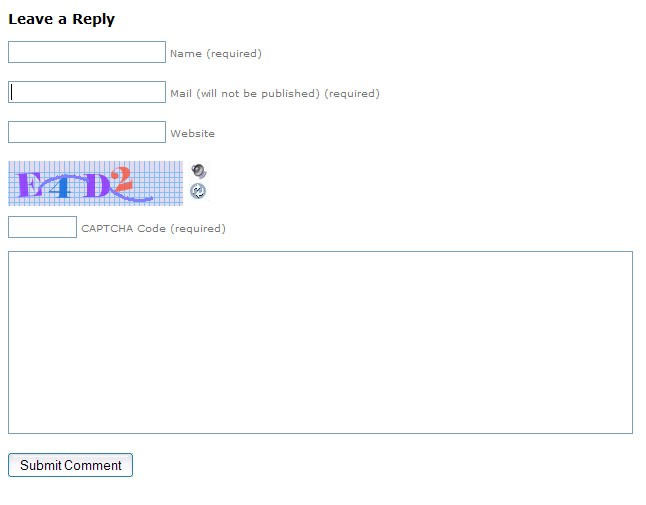
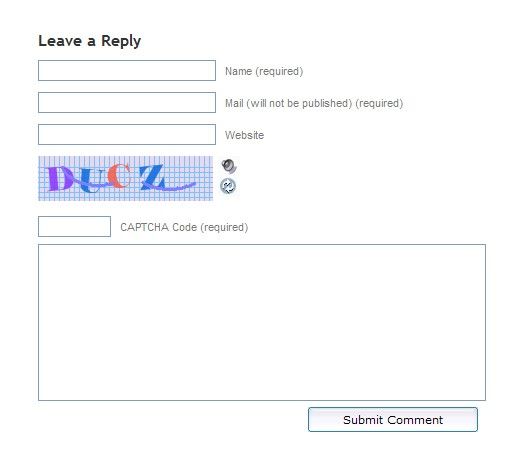
WP 2.7 update
git-svn-id: https://plugins.svn.wordpress.org/si-captcha-for-wordpress/trunk@80779 b8457f37-d9ea-0310-8a92-e5e31aec5664

diff --git a/si-captcha.php b/si-captcha.php
@@ -3,7 +3,7 @@
 Plugin Name: SI CAPTCHA
 Plugin URI: http://www.642weather.com/weather/scripts-wordpress-captcha.php
 Description: A CAPTCHA to protect comment posts and or registrations in WordPress
-Version: 1.3
+Version: 1.3.1
 Author: Mike Challis
 Author URI: http://www.642weather.com/weather/scripts.php
 */
@@ -35,7 +35,7 @@ if (!class_exists('siCaptcha')) {
 
 function add_tabs() {
     //add_options_page('Captcha Options', 'Captcha', 9, __FILE__,array(&$this,'options_page'));
-    add_submenu_page('plugins.php', __('Captcha Options', 'si-captcha'), __('Captcha Options', 'si-captcha'), 'manage_options', __FILE__,array(&$this,'options_page'));
+    add_submenu_page('plugins.php', __('SI Captcha Options', 'si-captcha'), __('SI Captcha Options', 'si-captcha'), 'manage_options', __FILE__,array(&$this,'options_page'));
 }
 
 function get_settings($value) {
@@ -93,10 +93,10 @@ function options_page() {
 <div id="message" class="updated fade"><p><strong><?php _e('Options saved.', 'si-captcha') ?></strong></p></div>
 <?php endif; ?>
 <div class="wrap">
-<h2><?php _e('Captcha Options', 'si-captcha') ?></h2>
+<h2><?php _e('SI Captcha Options', 'si-captcha') ?></h2>
 
 <p>
-<?php _e('Your theme must have a', 'si-captcha') ?> &lt;?php do_action('comment_form', $post->ID); ?&gt; <?php _e('tag inside your comments.php form. Most themes do.', 'si-captcha') ?>
+<?php _e('Your theme must have a', 'si-captcha') ?> &lt;?php do_action('comment_form', $post->ID); ?&gt; <?php _e('tag inside your comments.php form. Most themes do.', 'si-captcha'); echo ' '; ?>
 <?php _e('The best place to locate the tag is before the comment textarea, you may want to move it if it is below the comment textarea, or the captcha image and captcha code entry might display after the submit button.', 'si-captcha') ?>
 </p>
 
@@ -105,11 +105,11 @@ function options_page() {
         <input type="hidden" name="form_type" value="upload_options" />
     <?php si_captcha_nonce_field($si_captcha_nonce) ?>
         <fieldset class="options">
+
         <table width="100%" cellspacing="2" cellpadding="5" class="form-table">
 
         <tr>
-        <th scope="row">
-    <label for="si_captcha_register"><?php _e('CAPTCHA on Register Form:', 'si-captcha') ?></label></th>
+            <th scope="row"><label for="si_captcha_register"><?php _e('CAPTCHA on Register Form:', 'si-captcha') ?></label></th>
         <td>
     <input name="si_captcha_register" id="si_captcha_register" type="checkbox"
     <?php if ( $this->get_settings('si_captcha_register') == 'true' ) echo ' checked="checked" '; ?> />
@@ -118,8 +118,7 @@ function options_page() {
         </tr>
 
         <tr>
-        <th scope="row">
-    <label for="si_captcha_comment"><?php _e('CAPTCHA on Comment Form:', 'si-captcha') ?></label></th>
+            <th scope="row"><label for="si_captcha_comment"><?php _e('CAPTCHA on Comment Form:', 'si-captcha') ?></label></th>
         <td>
     <input name="si_captcha_comment" id="si_captcha_comment" type="checkbox" <?php if ( $this->get_settings('si_captcha_comment') == 'true' ) echo ' checked="checked" '; ?> />
     <?php _e('Enable CAPTCHA on the comment form.', 'si-captcha') ?><br />
@@ -133,8 +132,7 @@ function options_page() {
         </tr>
 
     <tr>
-        <th scope="row">
-    <label for="si_captcha_rearrange"><?php _e('Comment Form Rearrange:', 'si-captcha') ?></label></th>
+        <th scope="row"><label for="si_captcha_rearrange"><?php _e('Comment Form Rearrange:', 'si-captcha') ?></label></th>
         <td>
     <input name="si_captcha_rearrange" id="si_captcha_rearrange" type="checkbox"
     <?php if ( $this->get_settings('si_captcha_rearrange') == 'true' ) echo ' checked="checked" '; ?> />
@@ -144,6 +142,7 @@ function options_page() {
 
         </table>
         </fieldset>
+
 <p><strong><?php _e('Problem:', 'si-captcha') ?></strong>
 <?php _e('Sometimes the captcha image and captcha input field are displayed AFTER the submit button on the comment form.', 'si-captcha') ?><br />
 <strong><?php _e('Fix:', 'si-captcha') ?></strong>
@@ -186,12 +185,12 @@ function captchaCheckRequires() {
 
   $ok = 'ok';
   // Test for some required things, print error message if not OK.
-  if ( !extension_loaded("gd") ) {
+  if ( !extension_loaded('gd') || !function_exists('gd_info') ) {
        echo '<p style="color:maroon">'.__('ERROR: si-captcha.php plugin says GD image support not detected in PHP!', 'si-captcha').'</p>';
        echo '<p>'.__('Contact your web host and ask them why GD image support is not enabled for PHP.', 'si-captcha').'</p>';
       $ok = 'no';
   }
-  if ( !function_exists("imagepng") ) {
+  if ( !function_exists('imagepng') ) {
        echo '<p style="color:maroon">'.__('ERROR: si-captcha.php plugin says imagepng function not detected in PHP!', 'si-captcha').'</p>';
        echo '<p>'.__('Contact your web host and ask them why imagepng function is not enabled for PHP.', 'si-captcha').'</p>';
       $ok = 'no';
@@ -228,7 +227,7 @@ echo '
 if ($this->captchaCheckRequires()) {
 
 echo '
-<div style="width: 250px;  height: 55px">
+<div style="width: 250px; height: 55px; padding-top: 10px;">
          <img id="siimage" style="padding-right: 5px; border-style: none; float:left;"
          src="'.$captcha_url.'/securimage_show.php?sid='.md5(uniqid(time())).'"
          alt="'.__('CAPTCHA Image', 'si-captcha').'" title="'.__('CAPTCHA Image', 'si-captcha').'" />
@@ -241,7 +240,7 @@ echo '
          style="border-style: none; vertical-align:bottom;" onclick="this.blur()" /></a>
 </div>
 <div id="captchaInputDiv" style="display:block;" >
-<input id="captcha_code" name="captcha_code" type="text" style="width:65px;" tabindex="4" />
+<input type="text" name="captcha_code" id="captcha_code" tabindex="4" style="width:65px;" />
  <label for="captcha_code"><small>'.__('CAPTCHA Code (required)', 'si-captcha').'</small></label>
 </div>
 </div>
@@ -297,9 +296,10 @@ echo '
          style="border-style: none; vertical-align:bottom;" onclick="this.blur()" /></a>
 </div>
 <p>
-<input id="captcha_code" name="captcha_code" type="text" style="width:65px;" tabindex="30" />
+<input type="text" name="captcha_code" id="captcha_code" class="input" tabindex="30" style="width:65px;" />
  <label for="captcha_code">'.__('CAPTCHA Code (required)', 'si-captcha').'</label>
 </p>
+<br />
 ';
 }
 
